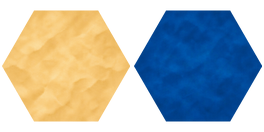
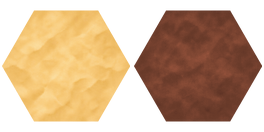
Colour-grade Relic Rush target plaques to red umber stone
The cobalt target cells merged into the blue jungle mist. The dressing
packer gains a recorded grade step that keeps the face's painted grain
and maps it onto a warm umber tone; the source atlas is unchanged. The
frame becomes target-plaque, and the lesson, Explorer's Guide and docs
call them red plaques.

diff --git a/games/relic-rush/tools/prepare_board_dressing.py b/games/relic-rush/tools/prepare_board_dressing.py
@@ -1,4 +1,4 @@
-"""Register the painted limestone and blue plaque faces for Relic Rush."""
+"""Register the painted limestone and target plaque faces for Relic Rush."""
 import argparse
 import json
 from pathlib import Path
@@ -10,9 +10,28 @@ SPEC = json.loads((ROOT / "art/board-states/manifest.json").read_text())["dressi
 SIZE, STRIDE = 128, 132
 
 
+def grade(tile, spec):
+    """Recolour a face to spec["tone"], keeping its painted grain.
+
+    Each pixel's brightness relative to the face's mean brightness scales the
+    new tone; spec["grain"] scales how much of that variation survives.
+    """
+    rgb, alpha = tile.convert("RGB"), tile.getchannel("A")
+    luma = list(rgb.convert("L").getdata())
+    weights = list(alpha.getdata())
+    mean = sum(l * w for l, w in zip(luma, weights)) / max(1, sum(weights))
+    tone, amount = spec["tone"], spec.get("grain", 1)
+    out = Image.new("RGB", tile.size)
+    out.putdata([tuple(min(255, round(c * (1 + amount * (l / mean - 1)))) for c in tone) for l in luma])
+    out.putalpha(alpha)
+    return out
+
+
 def register(source, item, mask):
     assert item["fit"] == "fill", item
     tile = source.crop(item["crop"]).resize((SIZE, SIZE), Image.Resampling.LANCZOS)
+    if "grade" in item:
+        tile = grade(tile, item["grade"])
     # Full-bleed paint must reach the registered face before we cut it.
     unpainted = tile.getchannel("A").point(lambda a: 255 if a < 230 else 0)
     assert not ImageChops.multiply(unpainted, mask).getbbox(), item

diff --git a/games/relic-rush/README.md b/games/relic-rush/README.md
@@ -6,7 +6,7 @@ See the [device deployment guide](../../tools/xcode/README.md#deploy-to-a-connec
 
 A portrait mobile-first hex match-3 / island-restoration prototype, written in C11 on the repository's shared platform engine ([`engine/`](../../engine)), the same engine that runs [Nile Archive](../nile-archive). The island is the engine's `city`; text, shapes, input, camera, saves and sound come from the engine; this folder holds the rules, the content and the look. The WebAssembly preview runs the same C code; the browser page is only a fullscreen canvas.
 
-Launch straight into level one. Swipe adjacent relics, or tap one and then its neighbor. Clear all blue plaques within the move budget, claim resources, restore the next building on the island, and set out again. Thirty hex stages across three episodes restore the ten existing wonders and end with the valley singing and five lights answering at sea. The island is a scrollable 1920 × 2880 world with six unlockable regions, freely placed buildings and persistent positions.
+Launch straight into level one. Swipe adjacent relics, or tap one and then its neighbor. Clear all red plaques within the move budget, claim resources, restore the next building on the island, and set out again. Thirty hex stages across three episodes restore the ten existing wonders and end with the valley singing and five lights answering at sea. The island is a scrollable 1920 × 2880 world with six unlockable regions, freely placed buildings and persistent positions.
 
 Building popup images and resource icons follow the panel’s entrance scale,
 position and opacity through the shared form skin. See the
@@ -33,7 +33,7 @@ Scrolling uses the engine animation clock: a scalar `CAAnimation` drives the iOS
 
 ## Shared match engine and atlas
 
-Every expedition ends when all of its blue plaques are clear. Match on a blue
+Every expedition ends when all of its red plaques are clear. Match on a red
 cell to reveal the pale stone below. A chain absorbs the first hit on its piece.
 See the [board progression](docs/board-progression.md) for the pattern and move budget of each expedition.
 The [resource expedition design](docs/resource-expedition.md) covers how
@@ -135,7 +135,7 @@ See [effect reference study](docs/effects.md). The reel uses deterministic test 
 
 The widest nine-cell board spans 448 of the 480 logical screen units, using a 32-unit cell radius and 16-unit side margins. Gems and cell artwork scale together from their authored sizes: gems retain their transparent padding, and cell faces and state panels retain a small inset so neighbouring cells do not overlap. The entrance returns to a 1× pose when it finishes or is skipped. The board remains centred between the goals and tools on both phone sizes. See the [wide-board and cell-fit correction](docs/review/gem-cell-fit/README.md).
 
-The pale limestone and blue plaques meet at hairline seams on one continuous
+The pale limestone and red plaques meet at hairline seams on one continuous
 board surface. [Before and after at both phone sizes](../../docs/review/match3-board-seams/README.md).
 
 The minimum match is **three identical relics in a straight line** along any of the three hex axes. Bends and diamonds do not count. Ready lines resolve automatically before further input and after each fall. There are thirty different board silhouettes, with real holes and diagonal refill routes. The gold idol now has a six-sided silhouette.
@@ -194,7 +194,7 @@ On a 390 × 844 iPhone (safe-area insets 47 top, 34 bottom) the island and the j
 ## Expedition and restoration loop
 
 1. Start directly in the first match-3 level; there is no title-screen or friend-road detour.
-2. Clear all blue plaques within the move budget.
+2. Clear all red plaques within the move budget.
 3. Claim the matched resources, up to 40 Gold for saved moves, and three discovery stars on a first clear.
 4. Return to the island. At a wonder milestone, choose a location and confirm construction; otherwise the next story clue plays immediately.
 5. Confirm construction, pan across the growing settlement and open neighboring land when eligible.
@@ -212,7 +212,7 @@ Gold per unused move, with a maximum move bonus of 40 Gold.
 
 Every stage uses its own connected active-cell mask within a radius-four hex grid. Chain placements shape seams and approaches, and [board progression](docs/board-progression.md) records the decisions and exact starting terrain. Each row gives the starting number of blue plaques, including plaques under chains.
 
-| # | Expedition | Moves | Blue plaques | Chains |
+| # | Expedition | Moves | Red plaques | Chains |
 | --- | --- | ---: | ---: | ---: |
 | 1 | First Light | 24 | 7 | 0 |
 | 2 | The Lamp Lens | 29 | 9 | 0 |
@@ -294,7 +294,7 @@ A region must touch opened land and meet its discovery-star gate. Expansion does
 ## Play
 
 - Swap adjacent pieces to make a straight line of three or more identical pieces along any hex axis. All pieces in a long line clear together.
-- Match or land a tool hit on a chained piece to break the chain. A later hit clears a blue plaque on that cell.
+- Match or land a tool hit on a chained piece to break the chain. A later hit clears a red plaque on that cell.
 - Cascades increase score multipliers. Gathered resources animate toward their wallet slots; the result screen separately explains the guaranteed grant and spare Gold.
 - Pickaxe hits one cell, Dynamite hits the cell and its neighbors, and Sunburst hits every piece of the tapped kind. Each tool has two charges per level and costs zero moves. The guide explains mechanics.
 - Idle hints, automatic dead-board recovery, restart on failure, pause with Restart (confirmed), Quit to Island, and Sound and Reduce motion checkboxes.

diff --git a/games/relic-rush/docs/asset-catalogue.md b/games/relic-rush/docs/asset-catalogue.md
@@ -2,7 +2,7 @@
 
 ## Themed board art
 
-The live expedition uses [painted resources](#resource-pieces) on pale limestone. Dark blue plaques mark the cells required to win. The older Relics, Jewels and Resources sheets remain in the atlas for previews and imported-board diagnostics.
+The live expedition uses [painted resources](#resource-pieces) on pale limestone. Dark red plaques mark the cells required to win. The older Relics, Jewels and Resources sheets remain in the atlas for previews and imported-board diagnostics.
 
 | Runtime frames | Rule and artwork |
 | --- | --- |
@@ -148,7 +148,7 @@ The earlier excavation art is documented in
 ## Additional board elements
 
 These sprites support the reference-board previews. The campaign uses chains
-and blue plaques.
+and red plaques.
 
 The 48-cell [surface master](../../../engine/art/match3-elements/source.png) and
 [exact prompt](../../../engine/art/match3-elements/prompt.txt) contain both games'
@@ -355,7 +355,7 @@ See [match rules](match4-rules.md) for special-combination resolution.
 
 The campaign uses the same silver chain art on each board. One hit breaks
 the chain and keeps the piece in place. A later hit clears the piece and its
-blue plaque. Ice and carpet textures are recorded here for shared engine
+red plaque. Ice and carpet textures are recorded here for shared engine
 and source-board diagnostics.
 
 ### Story materials
@@ -363,7 +363,7 @@ and source-board diagnostics.
 | Frame | Meaning and use |
 | --- | --- |
 | `sandstone-floor` | Pale limestone for ordinary and cleared cells. |
-| `blue-plaque` | Cobalt stone on cells required for a win. The Explorer’s Guide uses the same face. |
+| `target-plaque` | Red umber stone on cells required for a win. The Explorer’s Guide uses the same face. |
 
 ImageGen painted the two flat faces together in one [atlas](../art/board-refresh/flat-ground.png),
 using the [prompt](../art/board-refresh/flat-ground-prompt.txt) and
@@ -373,6 +373,12 @@ crops. The packer resizes each to 128 px and applies the exact canonical
 flat-top alpha. Run `python3 games/relic-rush/tools/prepare_board_dressing.py`
 to repack `data/board-dressing.png`. The game draws the faces over a shared
 backing with a hairline seam between them. [In-game before and after](../../../docs/review/match3-board-seams/README.md).
+
+`target-plaque` began as the cobalt face of that atlas. Blue cells merged into
+the blue jungle mist behind the board, so the packer colour-grades this one
+crop (manifest `grade`): each pixel keeps its painted brightness relative to
+the face's mean, applied to the tone `#74402E`. The source atlas is unchanged.
+[Before and after](review/target-plaque-grade/README.md).
 
 The earlier [cover and terrain sources](../art/board-dressing/) and
 [historical review](screenshots/review/board-dressing/README.md) document the

diff --git a/games/relic-rush/docs/story.md b/games/relic-rush/docs/story.md
@@ -73,10 +73,10 @@ The wrong theory is Elena's automatic reflection at 3. The changed rhythm breaks
 
 Board 1 uses regular blue-tied timber, which earns Supplies. Boards 2–10 and 13 show a story piece in place of one resource kind. The first clear awards the corresponding quest object. The characters then talk about the find in the first-clear exchange. The tide-room reveal plays after Claim and leads into a choice of who answers the signal. Confirmed placements play their own scene. Replays bank matched resources and the capped move bonus. Clearing all blue plaques opens the site for the first-clear scene. On reload, the next unread scene or selected reply resumes, while completed boards and placed buildings stay credited. Older saves receive a recap at their current progress.
 
-## Chains and blue plaques
+## Chains and red plaques
 
-The blue plaques mark the crew’s work site. A chain holds a piece in place
-until a match or tool breaks it. Blue plaques beneath chains take a separate
+The red plaques mark the crew’s work site. A chain holds a piece in place
+until a match or tool breaks it. Red plaques beneath chains take a separate
 hit after the piece is free. Each first-clear item or scene pays off the work
 at that site. See [board progression](board-progression.md) for the starting
 counts and the [asset catalogue](asset-catalogue.md#story-materials) for the art.
@@ -397,6 +397,8 @@ as the slipped steps and distinguishes the near viewing shutter from the
 hand-operated warning across the flooded gap.
 
 ## Changelog
+
+- 2026-11-16: The work-site plaques are red stone instead of blue, so they stand apart from the blue mist; the lesson and Explorer’s Guide say “red plaque”. Dialogue is unchanged.
 
 - 2026-11-15: Camp timber comes from the same blue-tied logs used for Supplies. Painted trail arrows at the quay and shore point toward the old steps.
 

diff --git a/games/relic-rush/docs/board-progression.md b/games/relic-rush/docs/board-progression.md
@@ -1,6 +1,6 @@
 # Relic Rush board progression
 
-Every expedition asks the player to clear its blue plaques. Chains hold
+Every expedition asks the player to clear its red plaques. Chains hold
 pieces in place. A match or tool hit removes the chain, and a later hit
 clears the plaque beneath it. A chain on plain stone can be left in place if
 it is out of the way. Boards 2–10 and 13 show a story piece in one colour slot.
@@ -33,7 +33,7 @@ the parallel-channel boards, mandatory terrain avoids the isolated central
 spine so its narrowness does not create inaccessible cleanup. Blockers and
 objectives move the emphasis within each family.
 
-| Level | Board | Family | Blue plaques | Moves |
+| Level | Board | Family | Red plaques | Moves |
 | ---: | --- | --- | ---: | ---: |
 | 1 | First Light | Tapered bowl | 7 | 24 |
 | 2 | The Lamp Lens | Tapered bowl | 9 | 29 |
@@ -70,7 +70,7 @@ Straight matches of three or more clear all pieces in the run. Board holes
 interrupt a match. Pickaxe hits a single cell, Dynamite hits a cell and its
 immediate hex neighbors, and Sunburst hits all pieces of the chosen kind.
 These are the campaign’s adaptations of Cradle of Rome’s Hammer, Bomb and
-Star. Blue plaques stay in their authored positions until cleared.
+Star. Red plaques stay in their authored positions until cleared.
 
 Starting positions and targets are authored in `lua/campaign.lua`. Locks are
 ranked by the terrain priorities; the ranks favor seams and bridge approaches. The board shows its targets in blue. Points

diff --git a/games/relic-rush/docs/resource-expedition.md b/games/relic-rush/docs/resource-expedition.md
@@ -83,7 +83,7 @@ A beige cell is open ground. Clear the piece on a blue cell once to expose
 the pale stone. A chained piece takes one hit to free and a later hit to clear
 the plaque beneath it. Each blue cell marks a target on the board.
 
-Every expedition marks the work site with blue plaques. Clearing all of
+Every expedition marks the work site with red plaques. Clearing all of
 them wins. The first clear can recover a story item shown in an ordinary
 colour slot, and board 30 reveals the signal plate and Ines’s reply.
 Move limits fit short portrait play and give deliberate resource matches a
@@ -119,7 +119,7 @@ is the first such opportunity. After placement, show a turquoise water bucket
 in place of the blue timber on the next two water-site boards, 5 and 6.
 It pays into **Provisions**, the same family as the fruit. Those boards already
 use their green slot for the quay marker, and purple stone still supplies
-construction. Clearing the blue plaques recovers the marker. The bucket remains available on designated water boards and adds
+construction. Clearing the red plaques recovers the marker. The bucket remains available on designated water boards and adds
 no fourth currency. The Artisan Workshop unlocks cut blocks on board 9 at
 1 Supplies each. The crew uses the blocks to shore up the old steps.
 

diff --git a/games/relic-rush/docs/review/target-plaque-grade/README.md b/games/relic-rush/docs/review/target-plaque-grade/README.md
@@ -1,0 +1,18 @@
+# Target plaque colour grade
+
+The cobalt target cells merged into the blue jungle mist behind the board.
+The dressing packer now colour-grades that face to red umber stone, keeping
+its painted grain. The limestone, the source atlas and the frame are unchanged.
+The lesson and the Explorer's Guide call them red plaques.
+
+| Screen | Before | After |
+| --- | --- | --- |
+| Level 6, 480×900 | ![](board-480-before.jpg) | ![](board-480-after.jpg) |
+| Level 6, 390×844 | ![](board-390-before.jpg) | ![](board-390-after.jpg) |
+| Explorer's Guide, 480×900 | ![](guide-before.jpg) | ![](guide-after.jpg) |
+
+```sh
+python3 games/relic-rush/tools/prepare_board_dressing.py
+./build/relic-rush --headless --mute --fresh --size 480x900 --level 6 --shot board.png
+./build/relic-rush --headless --mute --fresh --size 480x900 --dialog guide --shot guide.png
+```
